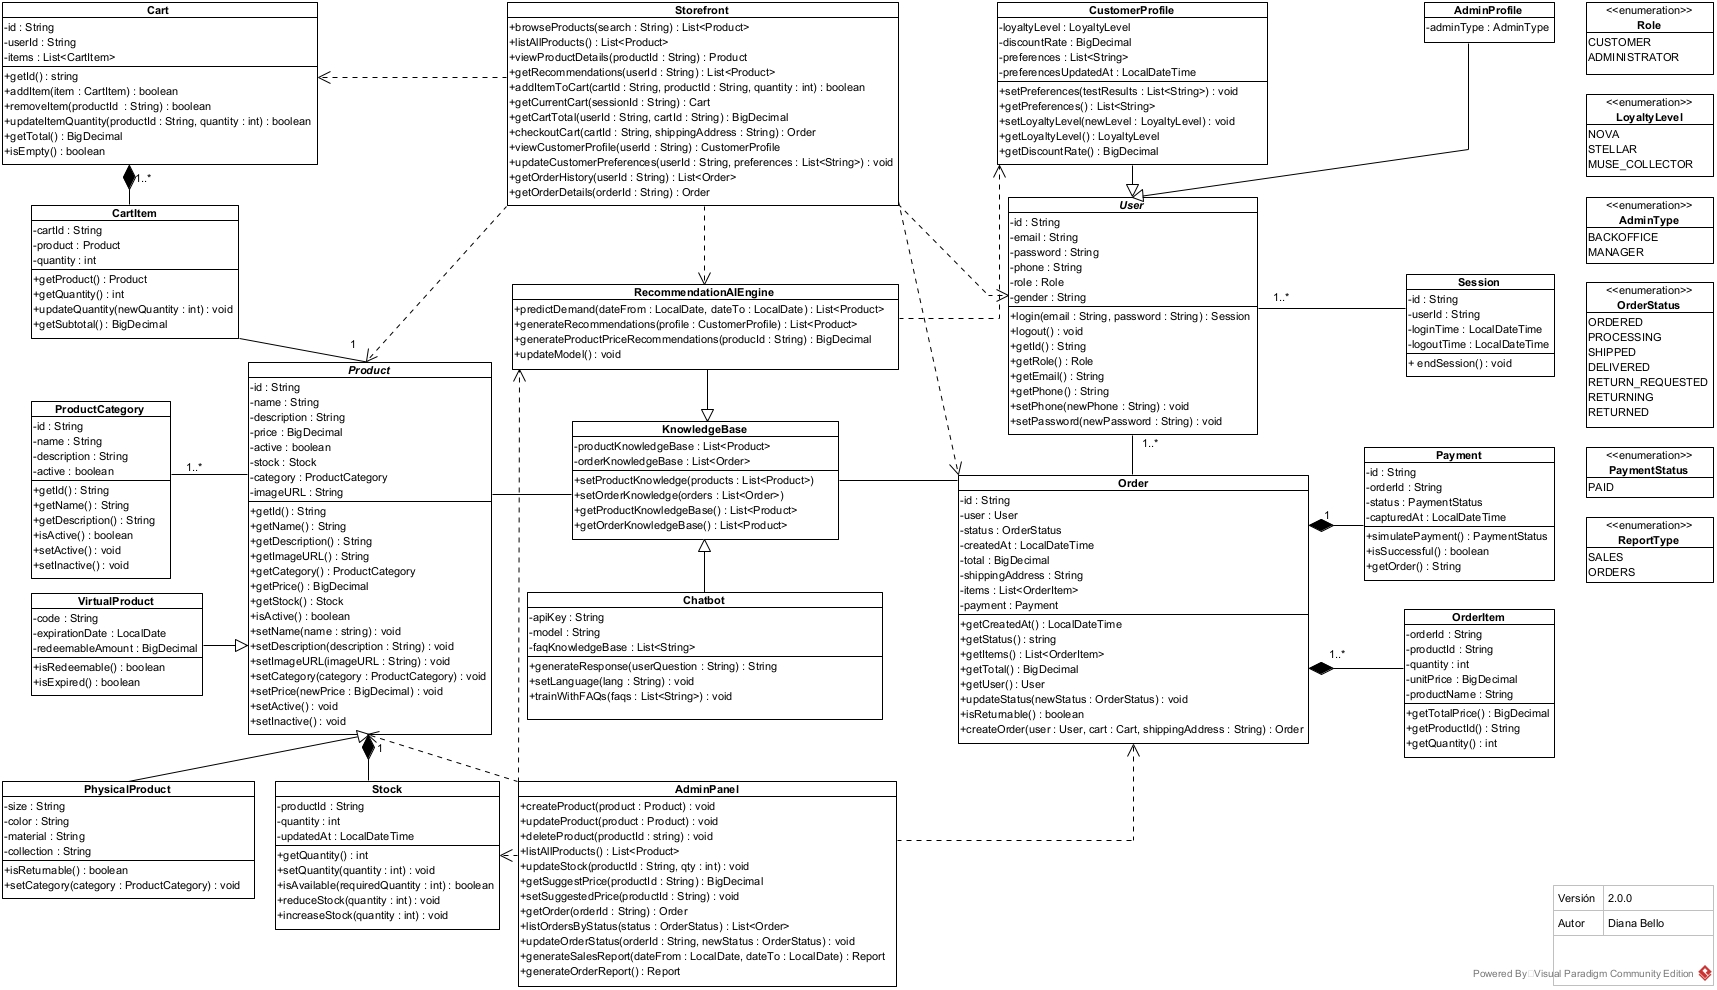
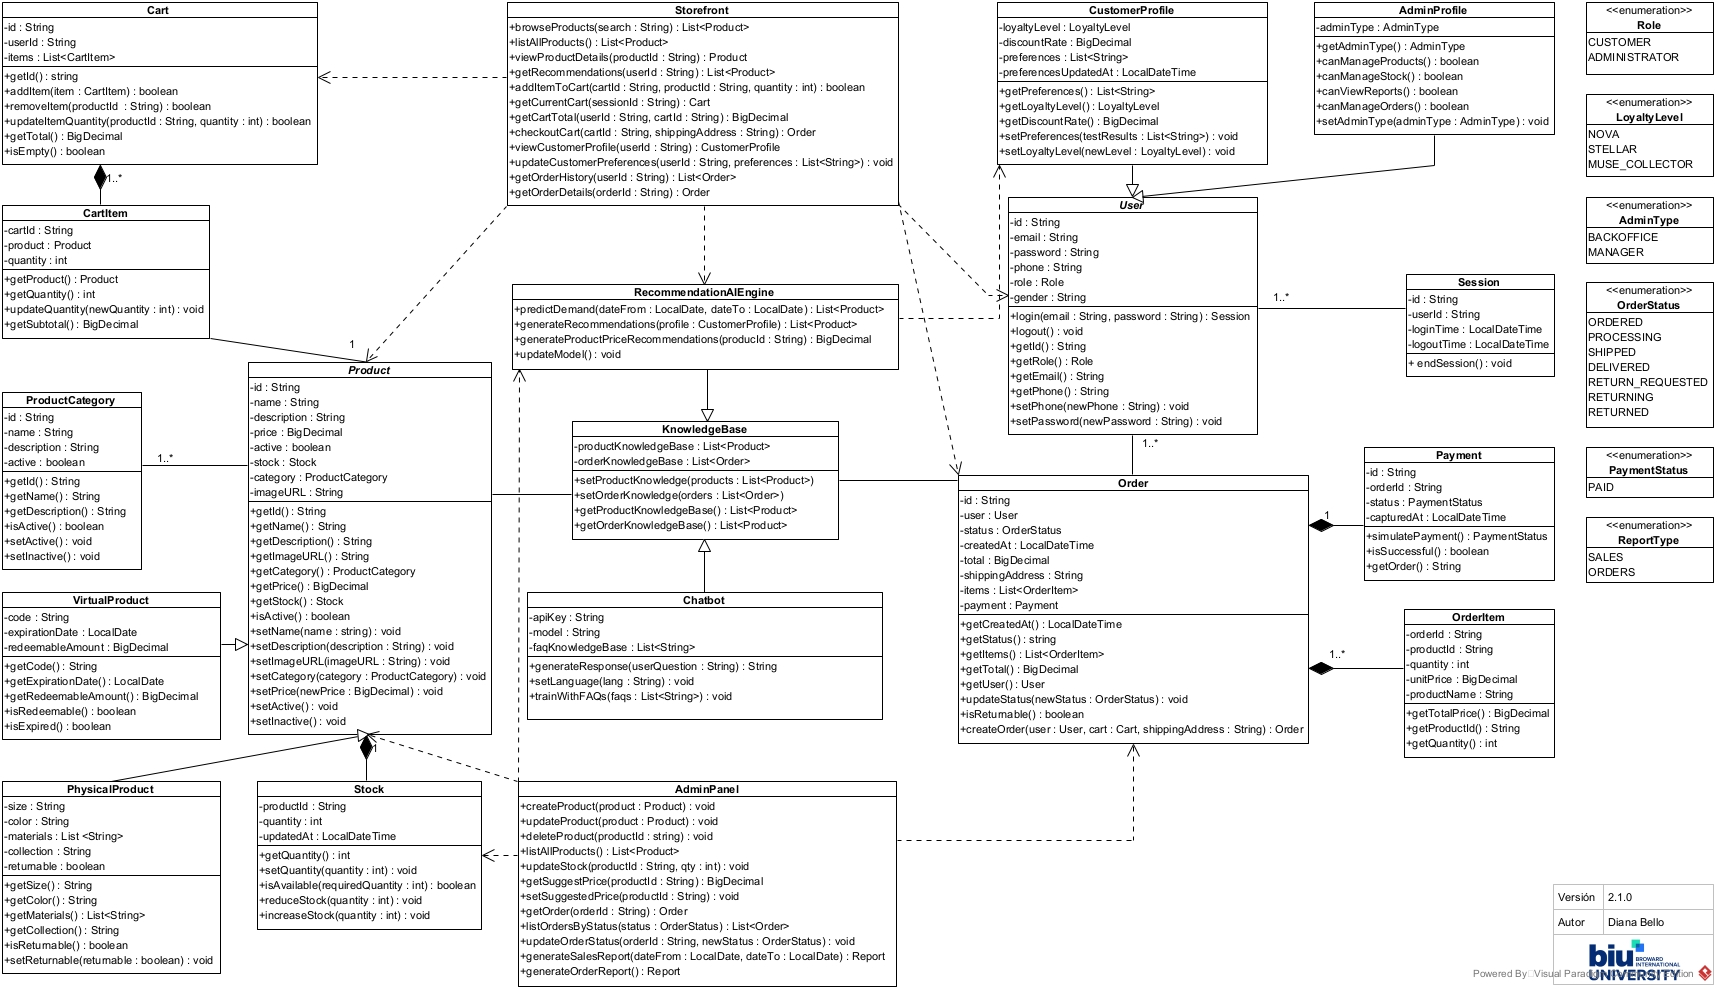
feat: Implementación de subclases CustomerProfile, AdminProfile
- Corresponde a la asignación 3
- Se actualizó imagen de diagrama de clases

diff --git a/src/com/arcadia/ecommerce/CustomerProfile.java b/src/com/arcadia/ecommerce/CustomerProfile.java
@@ -1,0 +1,62 @@
+package com.arcadia.ecommerce;
+
+import java.math.BigDecimal;
+import java.time.LocalDateTime;
+import java.util.List;
+
+public class CustomerProfile extends User {
+    private LoyaltyLevel loyaltyLevel;
+    private BigDecimal discountRate;
+    private List<String> preferences;
+    private LocalDateTime preferencesUpdatedAt;
+
+    public CustomerProfile(
+        String id,
+        String email,
+        String password,
+        String phone,
+        Role role,
+        String gender,
+        LoyaltyLevel loyaltyLevel,
+        BigDecimal discountRate,
+        List<String> preferences,
+        LocalDateTime preferencesUpdatedAt
+    ) {
+        super(id, email, password, phone, role, gender);
+        this.loyaltyLevel = loyaltyLevel;
+        this.discountRate = discountRate;
+        this.preferences = preferences;
+        this.preferencesUpdatedAt = preferencesUpdatedAt;
+    }
+
+    public void setPreferences(List<String> preferences) {
+        this.preferences = preferences;
+        this.preferencesUpdatedAt = LocalDateTime.now();
+    }
+
+    public List<String> getPreferences() {
+        return preferences;
+    }
+
+    public void setLoyaltyLevel(LoyaltyLevel newLevel) {
+        this.loyaltyLevel = newLevel;
+        switch (newLevel) {
+            case STELLAR:
+                this.discountRate = new BigDecimal("0.05");
+                break;
+            case MUSE_COLLECTOR:
+                this.discountRate = new BigDecimal("0.10");
+                break;
+            default:
+                this.discountRate = BigDecimal.ZERO;
+        }
+    }
+
+    public LoyaltyLevel getLoyaltyLevel() {
+        return loyaltyLevel;
+    }
+
+    public BigDecimal getDiscountRate() {
+        return discountRate;
+    }
+}

diff --git a/src/com/arcadia/ecommerce/AdminProfile.java b/src/com/arcadia/ecommerce/AdminProfile.java
@@ -1,0 +1,42 @@
+package com.arcadia.ecommerce;
+
+public class AdminProfile extends User {
+    private AdminType adminType;
+
+    public AdminProfile(
+        String id,
+        String email,
+        String password,
+        String phone,
+        Role role,
+        String gender,
+        AdminType adminType
+    ) {
+        super(id, email, password, phone, role, gender);
+        this.adminType = adminType;
+    }
+
+    public boolean canManageProducts() {
+        return adminType == AdminType.MANAGER || adminType == AdminType.BACKOFFICE;
+    }
+
+    public boolean canManageStock() {
+        return adminType == AdminType.MANAGER || adminType == AdminType.BACKOFFICE;
+    }
+
+    public boolean canViewReports() {
+        return adminType == AdminType.MANAGER;
+    }
+
+    public boolean canManageOrders() {
+    	return adminType == AdminType.MANAGER || adminType == AdminType.BACKOFFICE;
+    }
+
+    public AdminType getAdminType() {
+        return adminType;
+    }
+
+    public void setAdminType(AdminType adminType) {
+        this.adminType = adminType;
+    }
+}
